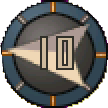
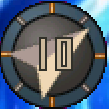
calc + windreader working

diff --git a/src/gunbound/cli.py b/src/gunbound/cli.py
@@ -9,19 +9,52 @@ Entry points:
 """
 
 import json
+import subprocess
 import sys
+from pathlib import Path
 
 from .calibration import calibrate, recalibrate_all, validate
 from .constants import KNOWN_MOBILES, POWER_MIN, POWER_MAX
 from .matching import suggest_shots
 from .physics import default_v_scale
 from .storage import (
+    PROJECT_ROOT,
     TRAINING_FILE,
+    WIND_FILE,
     load_mobiles,
     load_training,
     save_mobiles,
     save_training,
 )
+
+
+# ─────────────────────────────────────────────────────────────────────────────
+# Wind reader helpers
+# ─────────────────────────────────────────────────────────────────────────────
+
+def _start_wind_reader() -> subprocess.Popen | None:
+    """Spawn wind_reader.py as a background process. Returns Popen or None."""
+    script = PROJECT_ROOT / "tools" / "wind_reader.py"
+    if not script.exists():
+        return None
+    try:
+        proc = subprocess.Popen(
+            [sys.executable, str(script)],
+            stdout=subprocess.DEVNULL,
+            stderr=subprocess.DEVNULL,
+        )
+        return proc
+    except OSError:
+        return None
+
+
+def _read_wind_angle() -> float | None:
+    """Read wind angle from data/wind.json. Returns None if unavailable."""
+    try:
+        data = json.loads(Path(WIND_FILE).read_text(encoding="utf-8"))
+        return float(data["angle"])
+    except (OSError, KeyError, ValueError):
+        return None
 
 
 # ─────────────────────────────────────────────────────────────────────────────
@@ -170,15 +203,37 @@ def main() -> None:
 
     print(f"  Mobile set to: {mobile_input.upper()}\n")
 
+    # Start wind reader in background
+    wind_proc = _start_wind_reader()
+    if wind_proc:
+        print("  Wind reader started in background.\n")
+
     while True:
         try:
+            while True:
+                d = input("Shooting direction (L/R): ").strip().lower()
+                if d in ("l", "r", "left", "right"):
+                    shoot_right = d.startswith("r")
+                    break
+                print("  Enter L (left) or R (right).")
             target_sd     = _prompt_float("Target SD (0.1–3.0): ", 0.1, 3.0)
             height_diff   = _prompt_float(
                 "Height diff (positive = you are higher, -1.0 to 1.0): ", -1.0, 1.0
             )
-            wind_angle    = _prompt_float(
-                "Wind angle (0=up, 90=toward enemy, -90=away, ±180=down): ", -180.0, 180.0
-            )
+            wind_angle = _read_wind_angle()
+            if wind_angle is not None:
+                # wind_reader: 0=East, CCW, 0–360
+                # GunBound:    0=up, CW, ±180 (positive = toward enemy)
+                # Assuming enemy is to the right: gb = 90 - reader (normalised to ±180)
+                gb = (90.0 - wind_angle + 180.0) % 360.0 - 180.0
+                if not shoot_right:
+                    gb = -gb
+                wind_angle = gb
+                print(f"  Wind angle: {wind_angle:+.1f}°  (from wind reader)")
+            else:
+                wind_angle = _prompt_float(
+                    "Wind angle (0=up, 90=toward, -90=away, ±180=down): ", -180.0, 180.0
+                )
             wind_strength = _prompt_float("Wind strength (0–26): ", 0.0, 26.0)
         except (EOFError, KeyboardInterrupt):
             break

diff --git a/tools/gen_ruler.py b/tools/gen_ruler.py
@@ -29,6 +29,19 @@ TICK_PX    = 200   # 200 px = 0.125 SD  (1600 px = 1.0 SD)
 
 OUT_FILE   = str(ASSETS_DIR / "ruler.png")
 
+# ── Wind rose cutout ──────────────────────────────────────────────────────────
+# The ruler overlay must not cover the wind rose HUD element.
+# Rose absolute screen coords on 2560×1440: top-left (1230, 277), size 109×109.
+# Ruler window top-left on screen ≈ ((2560-1600)//2, (1440-1200)//2 + 25)
+#                                  = (480, 145).
+# Rose in ruler PNG coordinates: (1230-480, 277-145) = (750, 132).
+# Adjust ROSE_MARGIN for extra clearance if needed.
+ROSE_RULER_X = 750
+ROSE_RULER_Y = 132
+ROSE_RULER_W = 109
+ROSE_RULER_H = 109
+ROSE_MARGIN  = 10
+
 # ── Colors (R, G, B, A) ────────────────────────────────────────────────────────
 TICK_COLOR  = (255, 30,  30,  255)   # red ticks / text
 OUTLINE_CLR = (0,   0,   0,  255)   # black outline
@@ -165,6 +178,15 @@ def main():
     cx = (RULER_SIZE - (bbox[2] - bbox[0])) // 2
     cy = (RULER_SIZE - (bbox[3] - bbox[1])) // 2
     draw_outlined_text(draw, (cx, cy), "SD", font_sd, TICK_COLOR, OUTLINE_CLR)
+
+    # ── Wind rose cutout (erase all drawn content in that area) ─────────────────
+    cx0 = max(0, ROSE_RULER_X - ROSE_MARGIN)
+    cy0 = max(0, ROSE_RULER_Y - ROSE_MARGIN)
+    cx1 = min(SCREEN_W, ROSE_RULER_X + ROSE_RULER_W + ROSE_MARGIN)
+    cy1 = min(SCREEN_H, ROSE_RULER_Y + ROSE_RULER_H + ROSE_MARGIN)
+    clear = Image.new("RGBA", (cx1 - cx0, cy1 - cy0), (0, 0, 0, 0))
+    img.paste(clear, (cx0, cy0))
+    print(f"Wind rose cutout: ({cx0}, {cy0})–({cx1}, {cy1}) cleared")
 
     ASSETS_DIR.mkdir(parents=True, exist_ok=True)
     img.save(OUT_FILE, "PNG")

diff --git a/tools/wind_reader.py b/tools/wind_reader.py
@@ -38,6 +38,10 @@ import time
 import argparse
 import ctypes
 import functools
+
+# Force UTF-8 output so Unicode characters in print() don't crash on Windows cp1252 terminals.
+if hasattr(sys.stdout, "reconfigure"):
+    sys.stdout.reconfigure(encoding="utf-8", errors="replace")
 from collections import deque, Counter
 from pathlib import Path
 
@@ -101,10 +105,10 @@ OCR_X0, OCR_Y0 = 32, 36
 OCR_X1, OCR_Y1 = 73, 71
 
 # Maximum mean absolute error (0–255 scale) for a valid strength match.
-# Templates captured from live screenshots score ~0; templates from other sources
-# may score ~42 for the correct digit and ~44+ for wrong digits.
-# 50 accepts the best match while still rejecting completely wrong reads.
-OCR_MAE_LIMIT = 50
+# Templates captured from the live game score ~0; needle interference adds
+# ~5–15 MAE on bad frames.  20 rejects clearly wrong matches while leaving
+# room for the worst-case needle hit on the digit crop.
+OCR_MAE_LIMIT = 20
 
 # How long to wait between polls (seconds).
 POLL_INTERVAL = 0.3

diff --git a/src/gunbound/storage.py b/src/gunbound/storage.py
@@ -20,6 +20,7 @@ ASSETS_DIR = PROJECT_ROOT / "assets"
 
 MOBILES_FILE  = CONFIG_DIR / "mobiles_v2.json"
 TRAINING_FILE = DATA_DIR   / "training_data.json"
+WIND_FILE     = DATA_DIR   / "wind.json"
 
 
 # ─────────────────────────────────────────────────────────────────────────────
